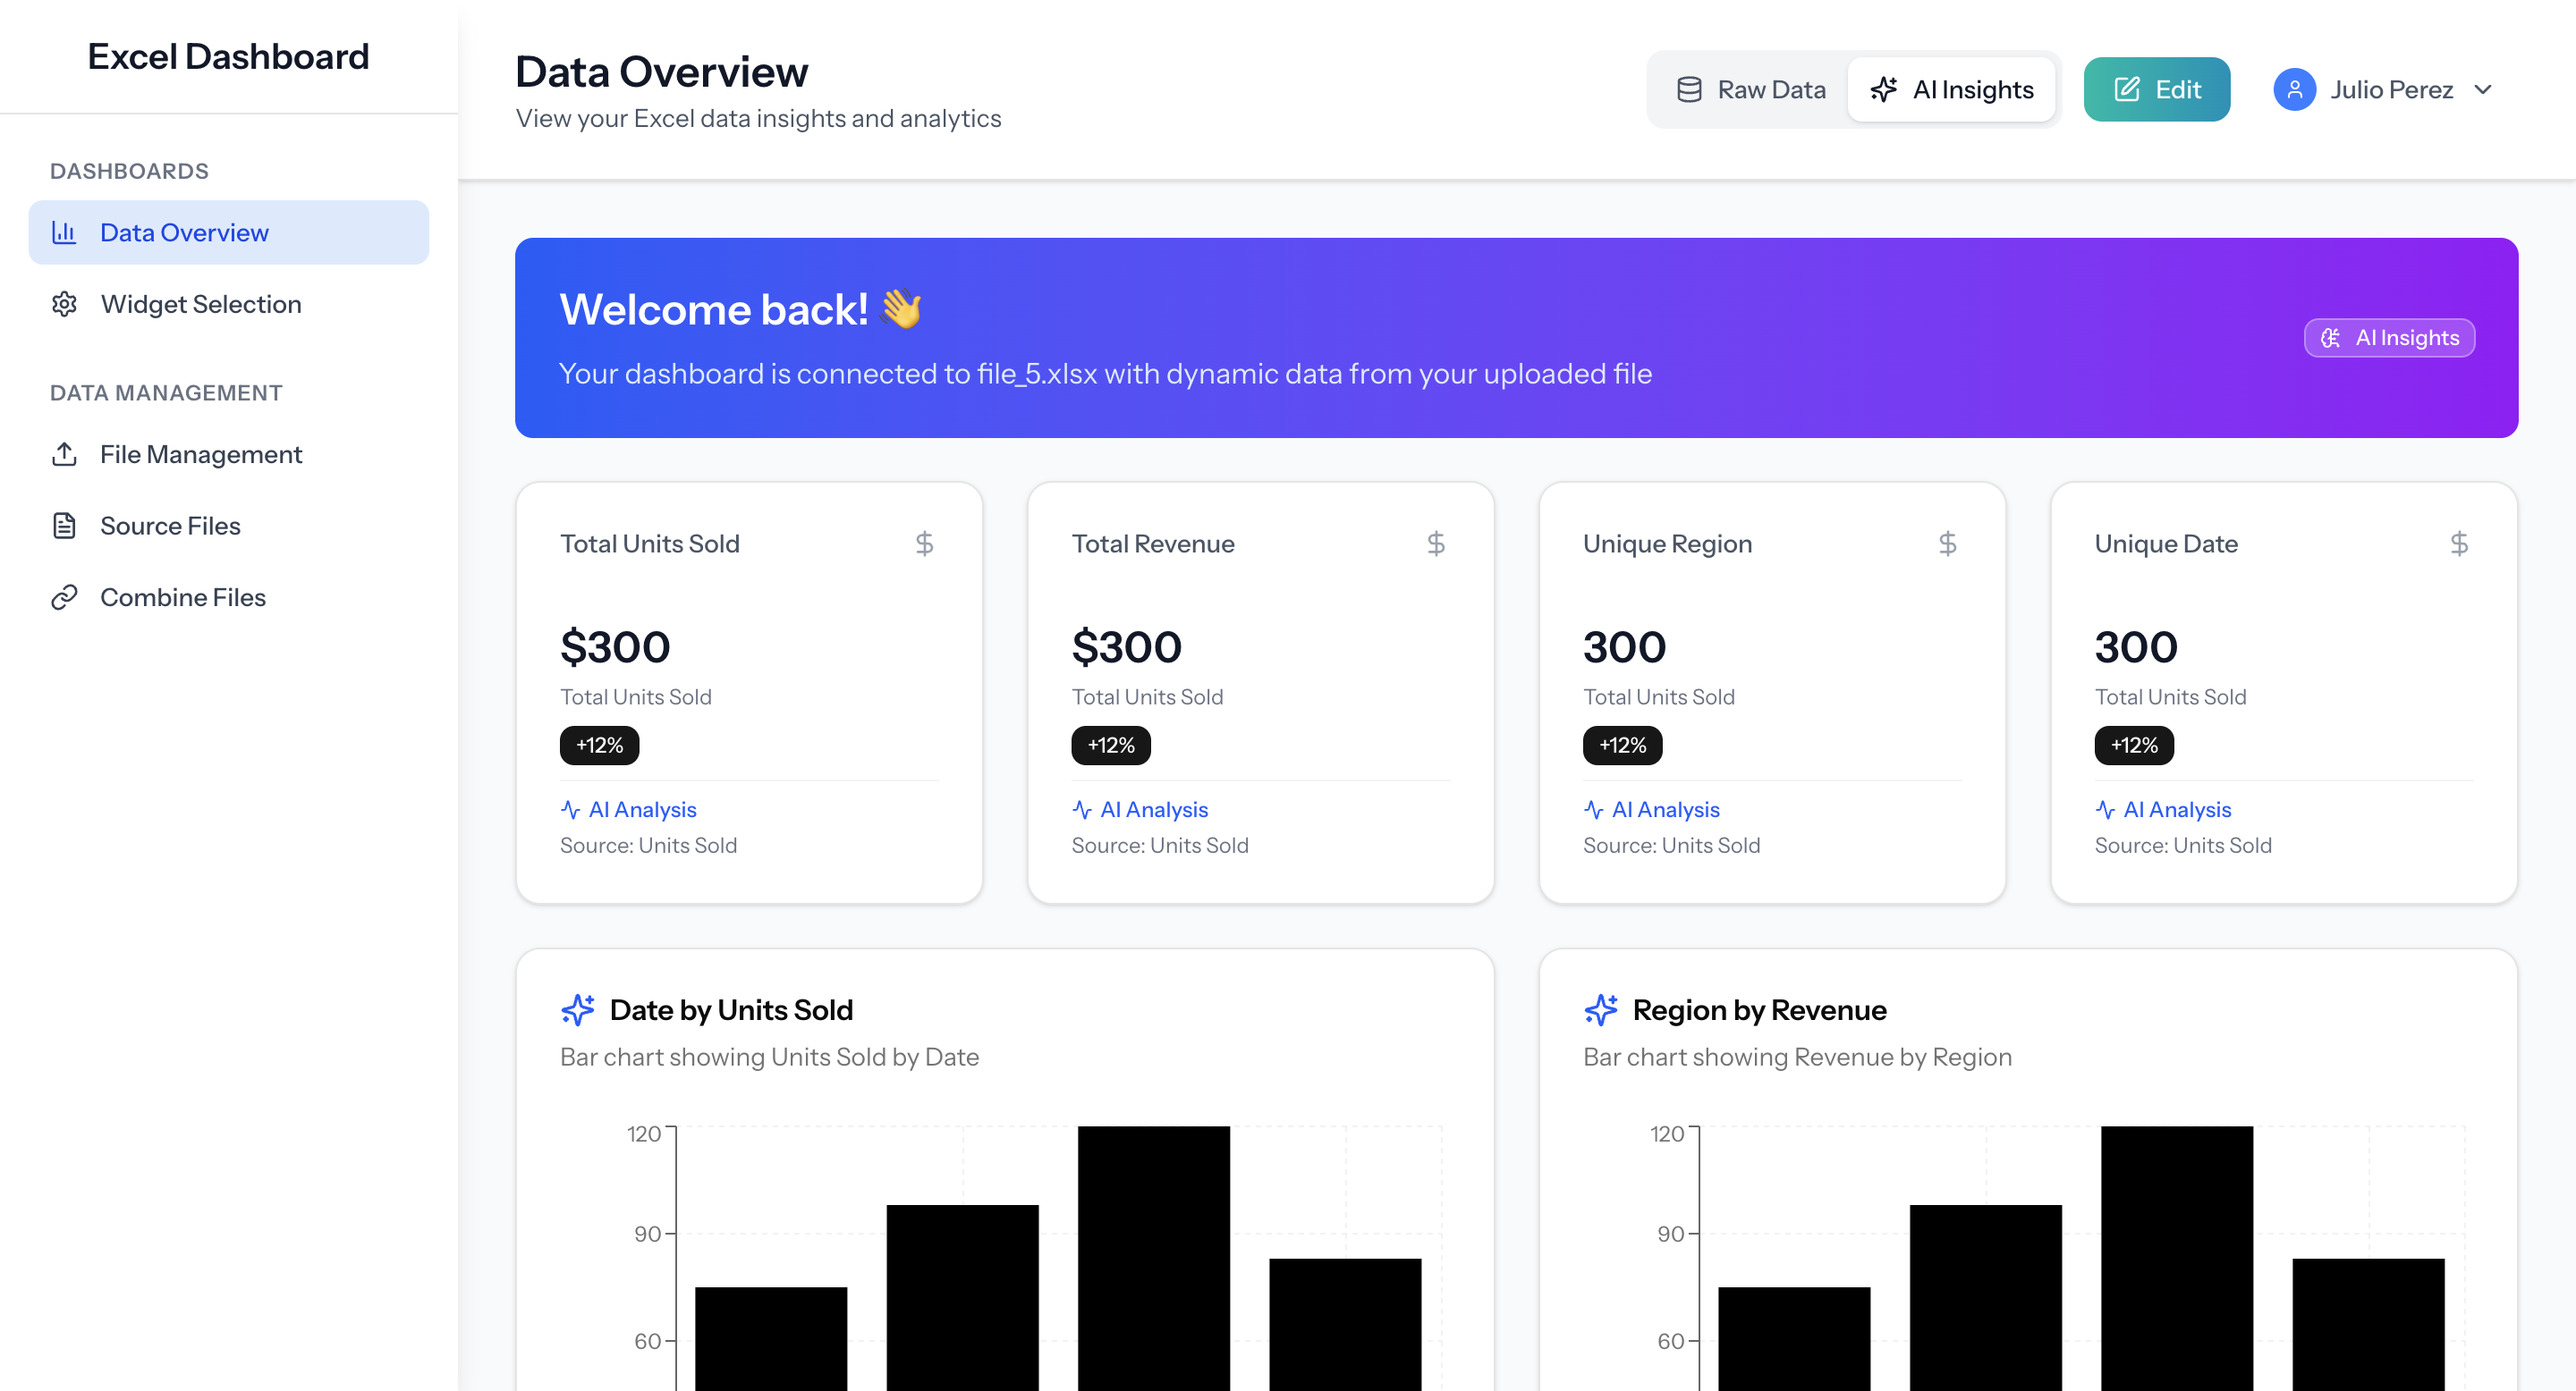
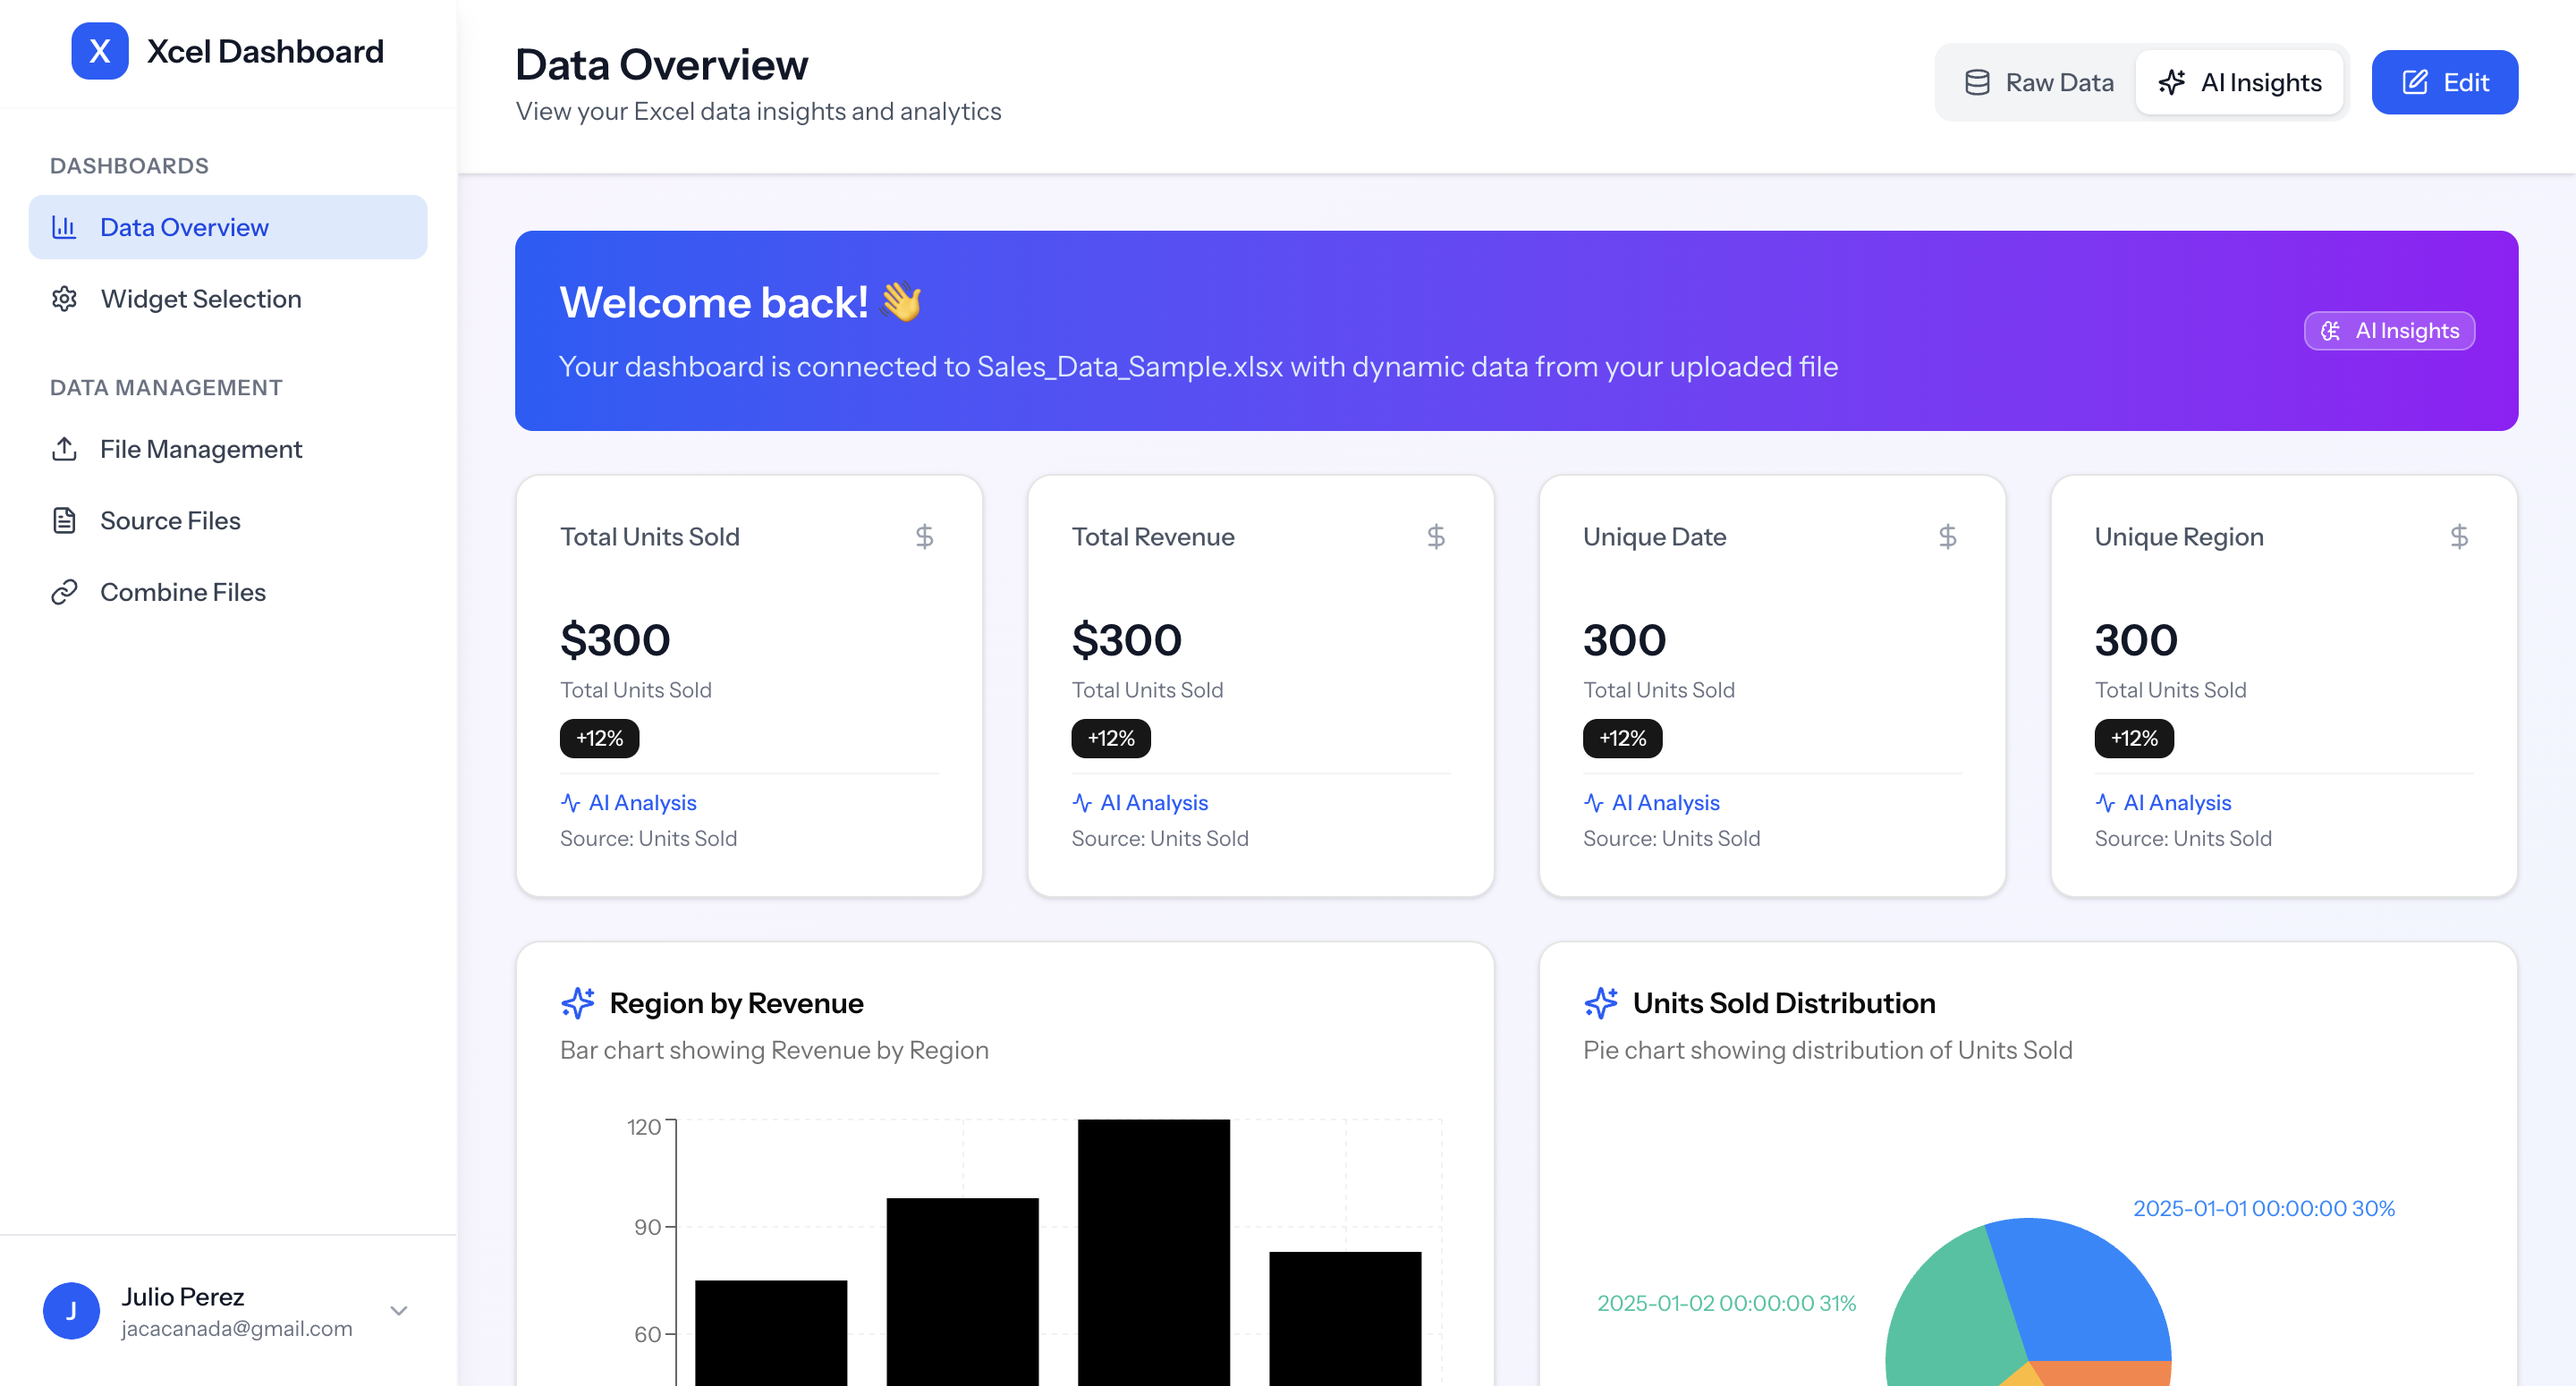
improved welcome page - footer

diff --git a/resources/js/Pages/Welcome.tsx b/resources/js/Pages/Welcome.tsx
@@ -486,9 +486,9 @@ export default function WelcomePage() {
       </div>
 
       {/* Footer */}
-      <footer className="bg-white border-t border-gray-200">
+      <footer className="bg-white">
         <div className="container mx-auto px-4 py-12">
-          <div className="grid grid-cols-1 md:grid-cols-2 gap-12">
+          <div className="flex flex-col md:flex-row justify-between items-start gap-12">
             {/* Left Side - Brand & Social */}
             <div className="space-y-6">
               {/* Logo and Description */}
@@ -530,18 +530,7 @@ export default function WelcomePage() {
             </div>
 
             {/* Right Side - Navigation Links */}
-            <div className="grid grid-cols-1 md:grid-cols-3 gap-8">
-              {/* Product */}
-              <div>
-                <h4 className="font-bold text-gray-900 mb-4">Product</h4>
-                <ul className="space-y-2 text-sm">
-                  <li><Link href="/dashboard" className="text-gray-600 hover:text-gray-900 transition-colors">Dashboard</Link></li>
-                  <li><Link href="/upload-files" className="text-gray-600 hover:text-gray-900 transition-colors">Upload Files</Link></li>
-                  <li><Link href="/connected-files" className="text-gray-600 hover:text-gray-900 transition-colors">Source Files</Link></li>
-                  <li><Link href="/combine-files" className="text-gray-600 hover:text-gray-900 transition-colors">Combine Files</Link></li>
-                </ul>
-              </div>
-
+            <div className="flex space-x-12">
               {/* Resources */}
               <div>
                 <h4 className="font-bold text-gray-900 mb-4">Resources</h4>

diff --git a/resources/js/Layouts/DashboardLayout.tsx b/resources/js/Layouts/DashboardLayout.tsx
@@ -225,7 +225,7 @@ export default function DashboardLayout({ children, title = 'Dashboard', descrip
                                 {showEditButton && (
                                     <Link
                                         href="/widget-selection"
-                                        className="inline-flex items-center px-4 py-2 text-sm font-medium text-white bg-gradient-to-r from-teal-500 to-cyan-600 hover:from-teal-600 hover:to-cyan-700 hover:shadow-lg rounded-lg transition-all duration-300 transform hover:scale-105 active:scale-95 focus:outline-none focus:ring-2 focus:ring-teal-500 focus:ring-offset-2 border-0"
+                                        className="inline-flex items-center px-4 py-2 text-sm font-medium text-white bg-blue-600 hover:bg-blue-700 hover:shadow-lg rounded-lg transition-all duration-300 transform hover:scale-105 active:scale-95 focus:outline-none focus:ring-2 focus:ring-blue-500 focus:ring-offset-2 border-0"
                                     >
                                         <Edit className="h-4 w-4 mr-2" />
                                         Edit
